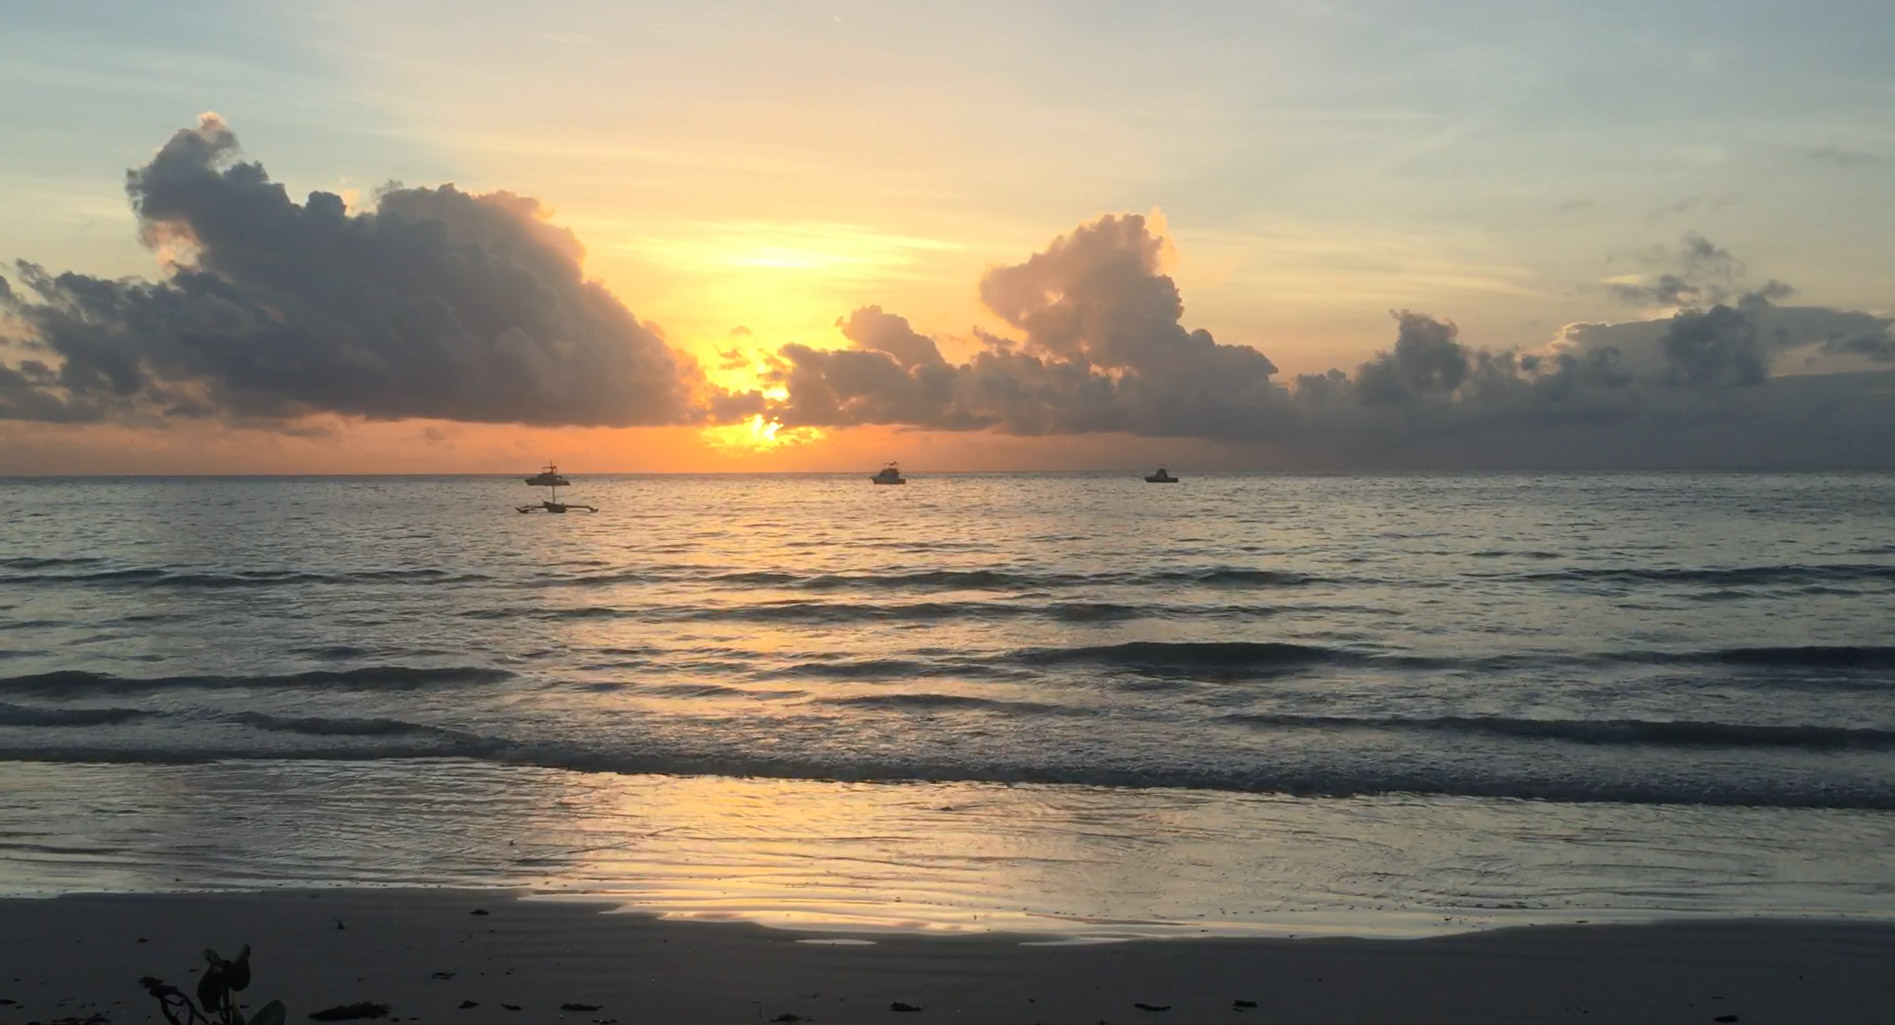
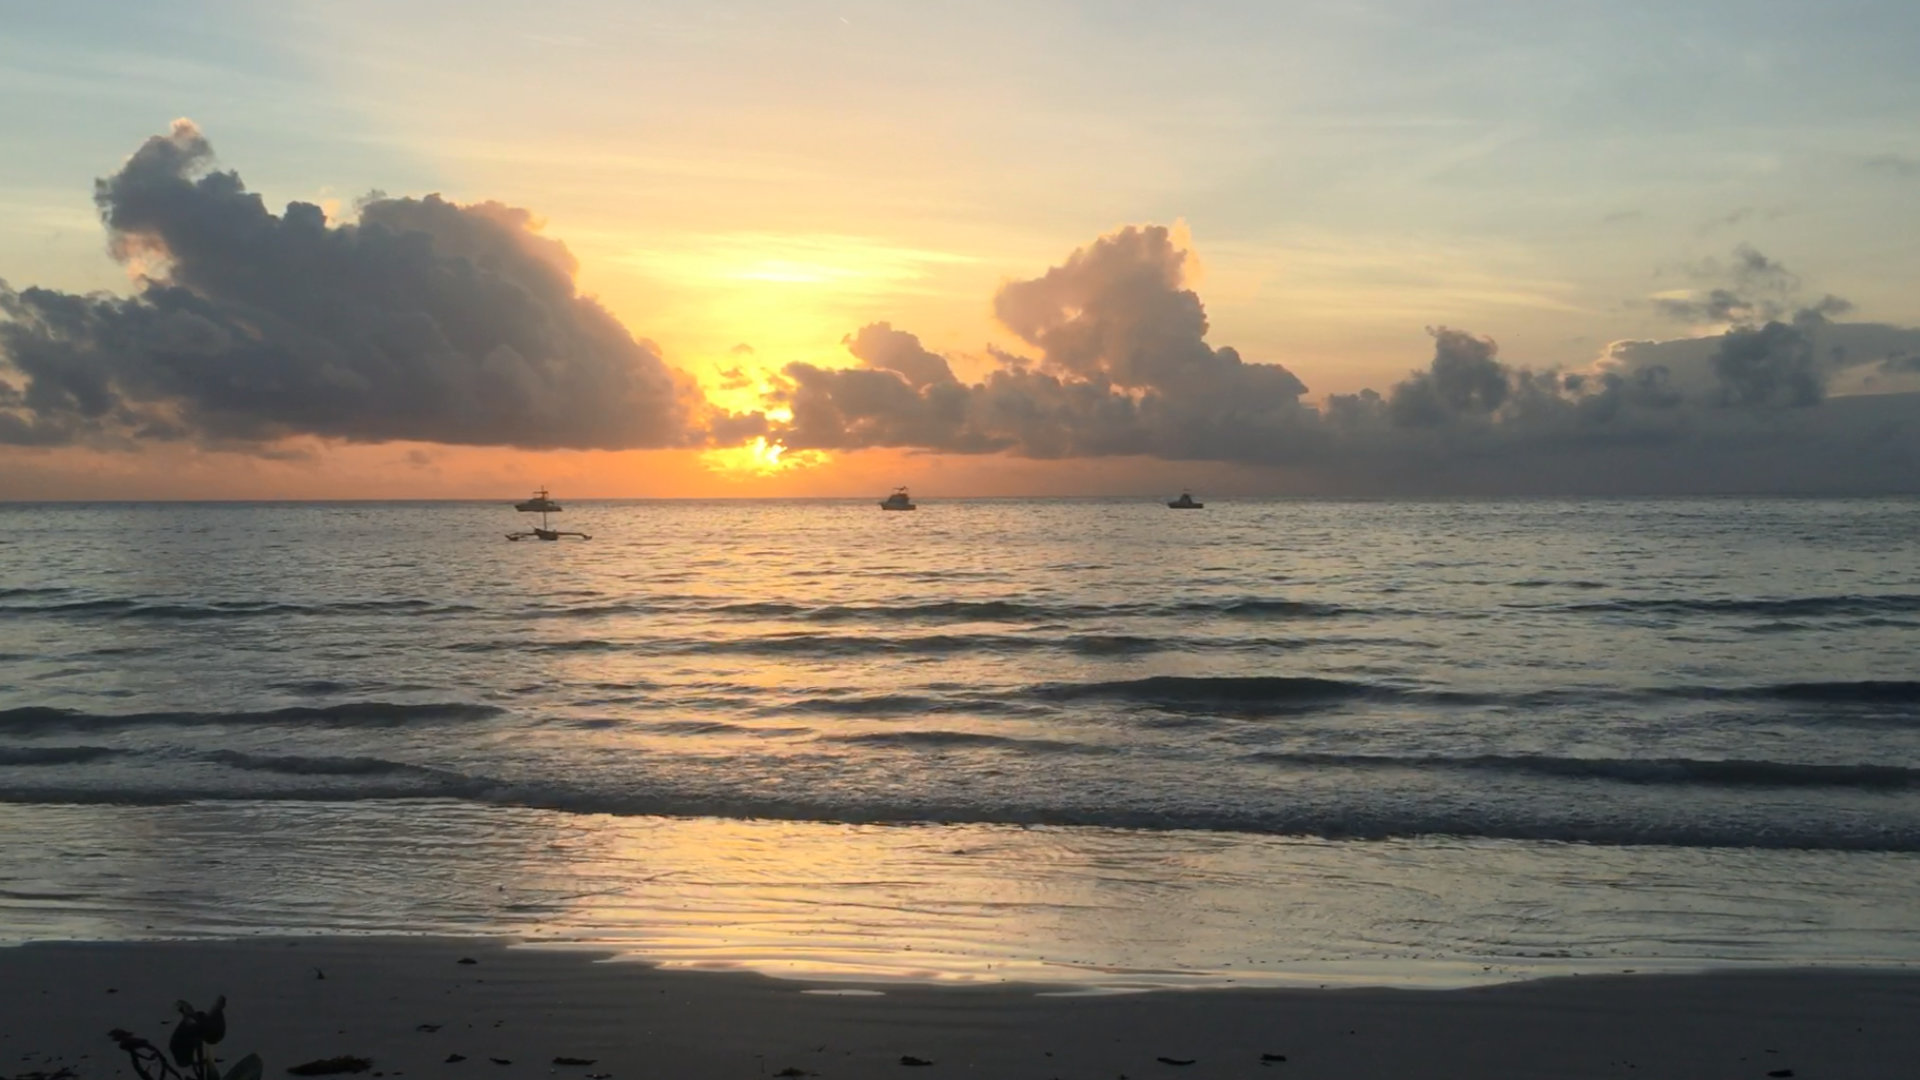
improved video & background performance

diff --git a/index.php b/index.php
@@ -14,7 +14,7 @@ include('top-atwc.php');
             <img class="portrait:h-72 sm:h-52 md:h-56 lg:h-64 2xl:h-almnd2xxl" src="app/img/logo.webp" alt="The Almond Tree Wellness Center" title="The Almond Tree Wellness Center">
         </a>
     </div>
-    <video autoplay loop class="beach-vid" id="video">
+    <video autoplay loop class="beach-vid" id="video" poster="app/img/backscrshot.webp">
         <source class="tatwc-beach" id="beachVid" src="app/vid/background.mp4" type="video/mp4" />
     </video>
     <script>
